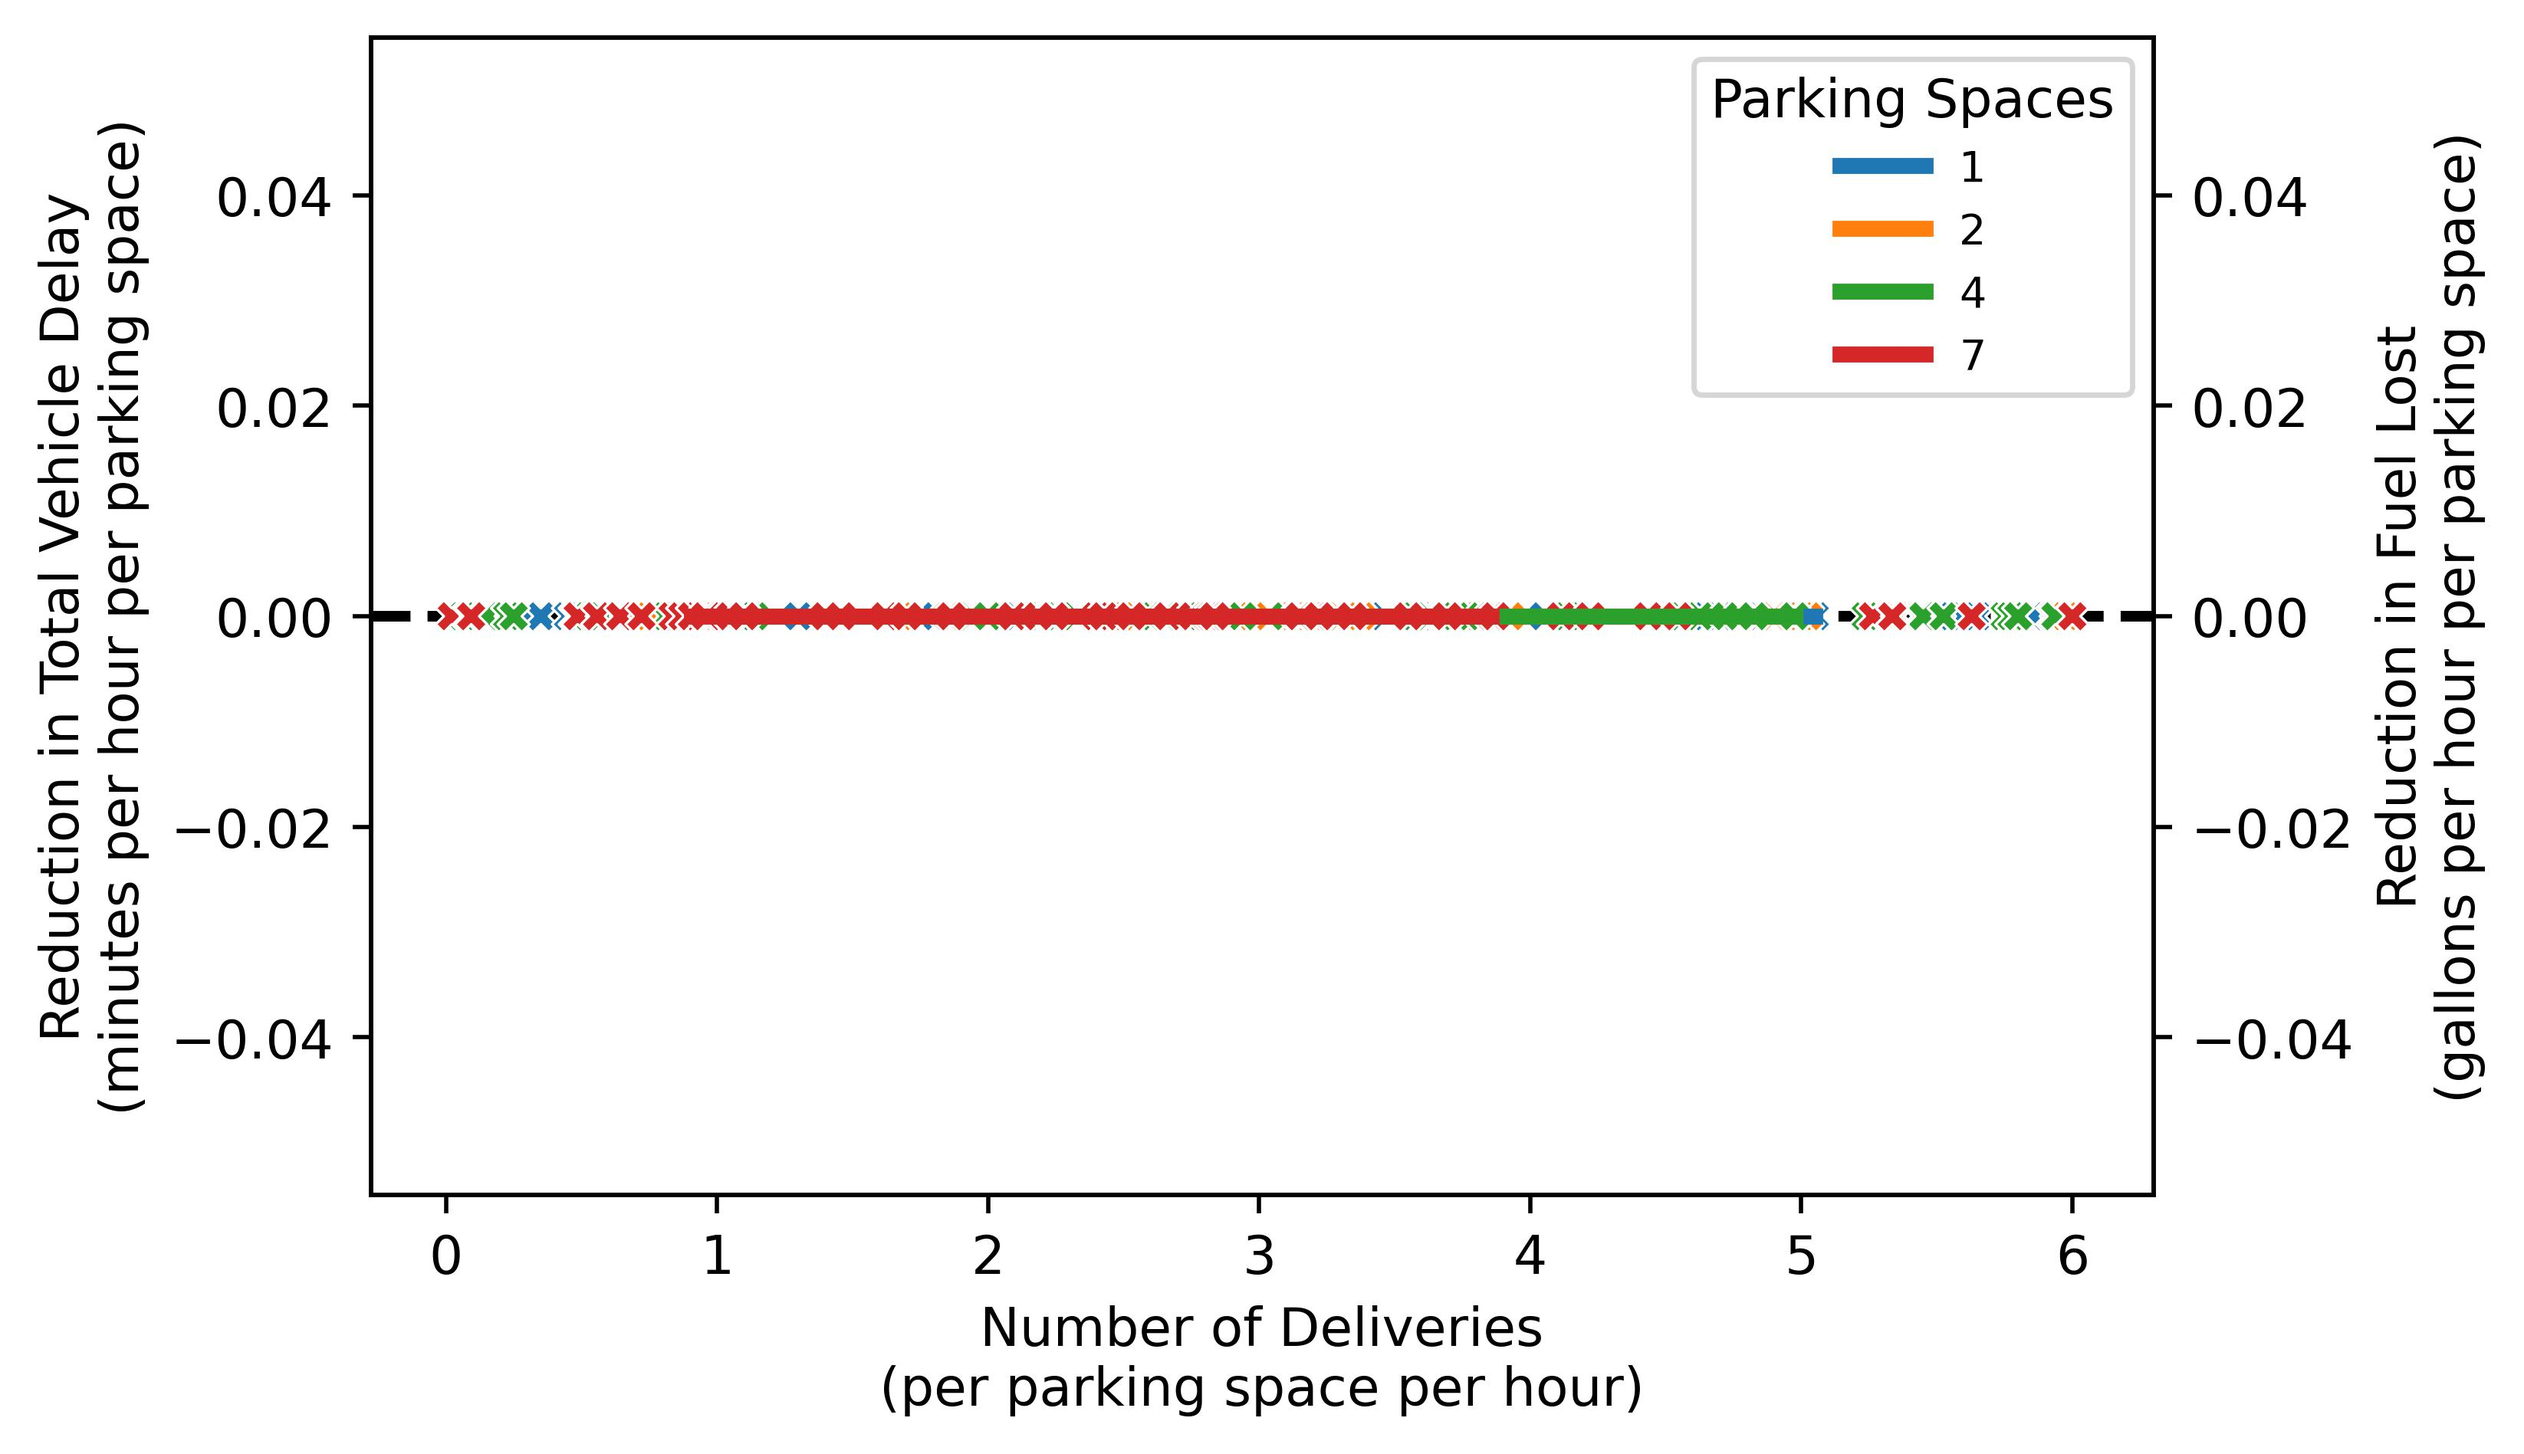
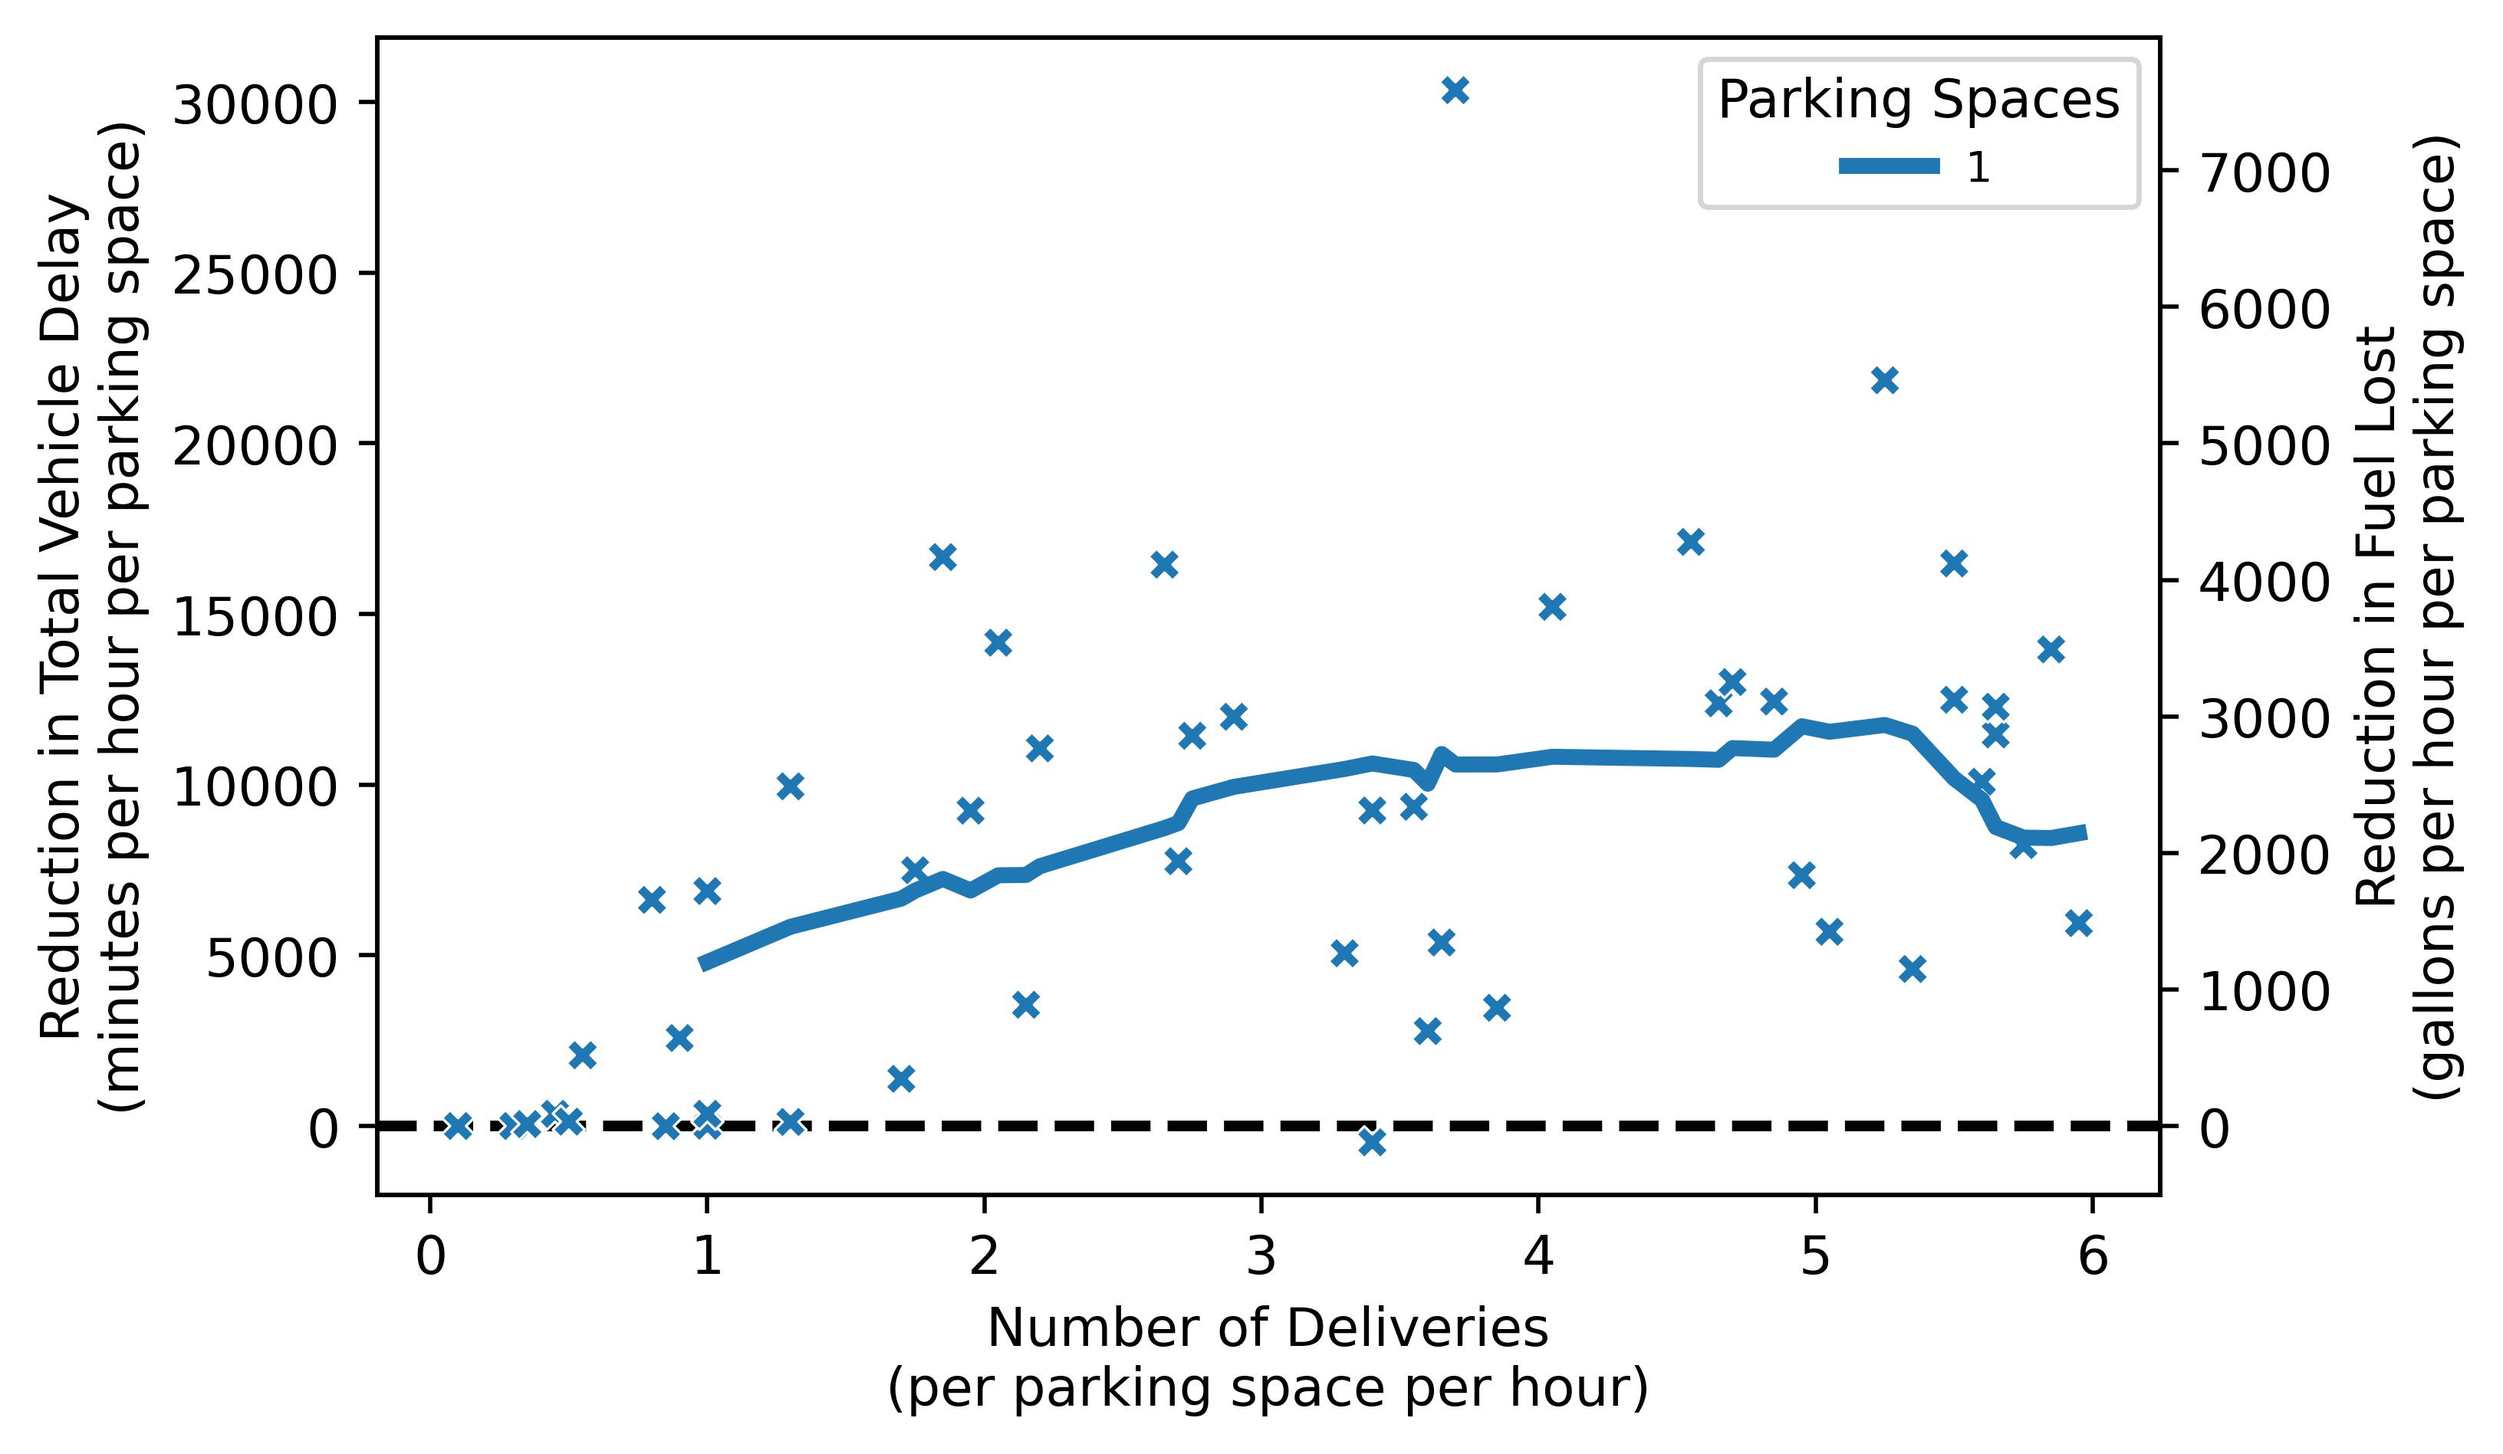
final changes prior to R2R submission

diff --git a/execute_R&R_runtime.py b/execute_R&R_runtime.py
@@ -45,9 +45,9 @@ def run_optimization(iterations, c, demand, start, end, phi, buffer, dataset):
         
         #create the vehicle request matrix
         if dataset == 'Aspen':
-            Q, sum_service = gen.gen_veh_arrivals(demand, end)
+            Q, sum_service = gen.gen_veh_arrivals(demand, end, buffer)
         elif dataset == 'Pitt':
-            Q, sum_service = gen_Pitt.gen_Pitt_arrivals(demand, end)
+            Q, sum_service = gen_Pitt.gen_Pitt_arrivals(demand, end, buffer)
             
         #run FCFS for fun
         dbl_park_seq, dbl_parked_events, legal_parked_events, park_events_FCFS = seq_curb.seq_curb(c, Q, end)
@@ -166,13 +166,17 @@ def convert_for_sns(data):
 def gen_boxplot(data):
     plt.figure(figsize=(10,4))
     sns.boxplot(data = data, x = 'runtime', y = 'label', color = 'white', showfliers = False) #, hue = 'status', outliers removed with showfliers
-    sns.stripplot(data = data, x = 'runtime', y = 'label', hue = 'status', hue_order=['Optimal', 'Optimal (only needed MILP)'],
+    sns.stripplot(data = data, x = 'runtime', y = 'label', hue = 'status', hue_order=['Optimal', 'Optimal (only needed MILP)', 'Time Limit (Not Optimal)'],
                   edgecolor='black', jitter = .20, linewidth = 0.75)    #, 'Time Limit (Not Optimal)'
     plt.xlabel('Optimization Runtime (seconds)')
     plt.ylabel('Optimization Method')
     #plt.suptitle('Runtime Comparison')
     #plt.title('3 spaces, 4 vehices/hr/space (132 vehicles), $\Psi = 5$, $\Phi = 5$')
     plt.legend(title = 'Algorithm Result', loc = 'lower right', fontsize = '12')
+    #plt.xticks([0, 2, 4, 6, 8, 10, 12])
+    #plt.xticks([0, 50, 100, 150, 200, 250, 300])
+    plt.xlim([-10, 310])
+    #plt.xlim([-.5, 14.5])
     
     return
 
@@ -195,7 +199,7 @@ if __name__ == '__main__':
     # #baseline case
     # c = 3 #num parking spaces
     # phi = 5 #flexibility
-    # demand = c*4*11 #total vehicles to draw veh/hr/parking space
+    # demand = c*2*11 #total vehicles to draw veh/hr/parking space
     # buffer = 5 #buffer space between reservations
     
     
@@ -210,8 +214,8 @@ if __name__ == '__main__':
     # save_res(res_df)
     
     #load the results if needed
-    #path = 'C:/Users/Aaron/Documents/GitHub/Parking_Slot_Assignment_Problem-Public/runtime/2024-01-16_Aaron Result (good data 3 spaces 4 demand)/Res_df.dat'
-    path = 'C:/Users/Aaron/Documents/GitHub/Parking_Slot_Assignment_Problem-Public/runtime/2024-01-01_Aaron Result (good data 3 spaces 2 demand)/Res_df.dat'
+    path = 'C:/Users/Aaron/Documents/GitHub/Parking_Slot_Assignment_Problem-Public/runtime/2024-01-16_Aaron Result (good data 3 spaces 4 demand)/Res_df.dat'
+    #path = 'C:/Users/Aaron/Documents/GitHub/Parking_Slot_Assignment_Problem-Public/runtime/2024-01-01_Aaron Result (good data 3 spaces 2 demand)/Res_df.dat'
     #path = 'C:/Users/Aaron/Documents/GitHub/Parking_Slot_Assignment_Problem-Public/runtime/2024-01-01_Aaron Result (good data 3 spaces 3 demand)/Res_df.dat'
     res_df = load_res(path)
     

diff --git a/graphic generation.py b/graphic generation.py
@@ -659,7 +659,7 @@ with open('pub_Aspen_run_for_record_17_Jan_2024_buffer_15.pkl', 'rb') as file:
 #pub_Aspen_queuing_data_post_process_phi5_limit30_midpt_24_Mar_2023_buffer_5_pessimistic.pkl
 #pub_Aspen_queuing_data_post_process_phi5_limit30_midpt_24_Mar_2023_buffer_5_optimistic.pkl
 
-with open('pub_Aspen_queuing_data_post_process_phi5_limit30_midpt_17_Feb_2024_buffer_15_optimistic.pkl', 'rb') as file:
+with open('pub_Aspen_queuing_data_post_process_phi5_limit30_midpt_17_Feb_2024_buffer_15_basecase.pkl', 'rb') as file:
     net_dbl_park_minutes_df_inst_FCFS, \
     total_veh_delay_inst_FCFS, \
     queue_duration_inst_FCFS, \
@@ -709,7 +709,7 @@ with open('pub_Pitt_run_for_record_18_Jan_2024_buffer_15.pkl', 'rb') as file:
 #pub_Pitt_queuing_data_post_process_phi5_limit30_midpt_24_Mar_2023_buffer_5_pessimistic.pkl
 #pub_Pitt_queuing_data_post_process_phi5_limit30_midpt_24_Mar_2023_buffer_5_optimistic.pkl
 
-with open('pub_Pitt_queuing_data_post_process_phi5_limit30_midpt_17_Feb_2024_buffer_15_optimistic.pkl', 'rb') as file:
+with open('pub_Pitt_queuing_data_post_process_phi5_limit30_midpt_24_Mar_2023_buffer_5_basecase.pkl', 'rb') as file:
     net_dbl_park_minutes_df_inst_FCFS, \
     total_veh_delay_inst_FCFS, \
     queue_duration_inst_FCFS, \
@@ -740,16 +740,16 @@ data_df = pd.DataFrame()
 c_list = [1, 2, 3, 4, 5, 6, 7]
 c_list = [1,2,4,7]
 #c_list = [1,4,7]
-#c_list = [1]
+c_list = [1]
 for c in c_list:
     #create a series to represent the specific number of parking spaces we are looking at
-    parking_space = pd.Series([c]*50, name = 'Parking Spaces') #*100 for the original data set, *50 for the R2R
+    parking_space = pd.Series([c]*100, name = 'Parking Spaces') #*100 for the original data set, *50 for the R2R
     #pull the normalized parking demand for a specific number of parking spaces
     parking_space_demand = pd.Series(n_index_norm_lst_df[c], name = 'norm parking demand')
     #pull the associated reduction in total vehicle delay
-    redux_time = pd.Series(total_veh_delay_Diff[c]/20/c, name = 'redux_time') #/11/c  #or convert to hours per year /60*365, have min per day, convert to hours per day * 365 days in a year
+    redux_time = pd.Series(total_veh_delay_Diff[c]/60*365, name = 'redux_time') #/11/c  #or convert to hours per year /60*365, have min per day, convert to hours per day * 365 days in a year
     #pull the associated reduction in total vehicle delay / by 240 for fuel consumption
-    redux_fuel = pd.Series(total_veh_delay_Diff[c]/240/20/c, name = 'redux_fuel') #/11/c/240 #or convert to gallons per year /240*365, have min per day, convert to gallons per day * 365 days
+    redux_fuel = pd.Series(total_veh_delay_Diff[c]/240*365, name = 'redux_fuel') #/11/c/240 #or convert to gallons per year /240*365, have min per day, convert to gallons per day * 365 days
     
     #combine this in column form
     df = pd.concat([parking_space, parking_space_demand, redux_time, redux_fuel], axis = 1)
